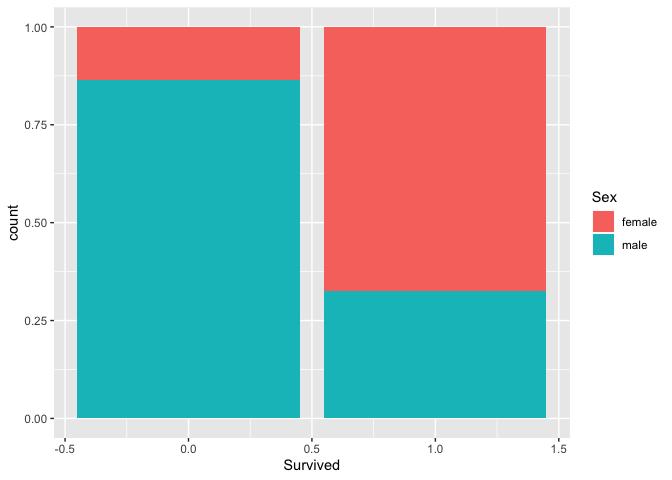
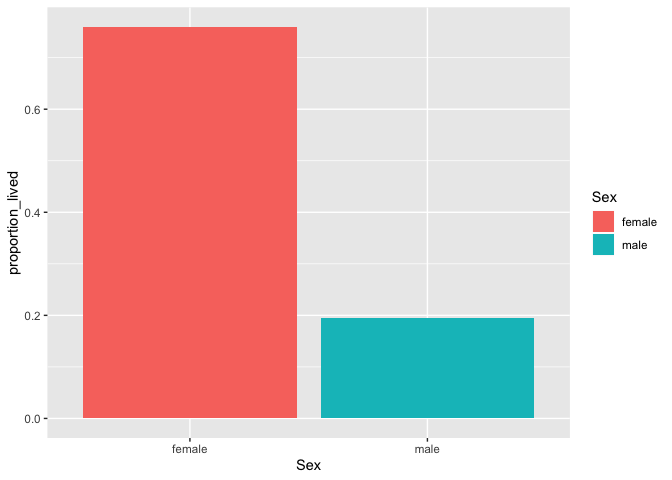
Logistic model

diff --git a/Analysis.md b/Analysis.md
@@ -192,14 +192,70 @@ Like with age, a simple bar chart will tell us a lot about how one group
 survives compared to the other.
 
 ``` r
-ggplot(train_data) +
-  geom_bar(aes(Survived, fill = Sex), position = "fill")
+by_sex <- train_data %>%
+  group_by(Sex) %>%
+  summarise(proportion_lived = sum(Survived == 1) / n())
+
+ggplot(by_sex) +
+  geom_col(aes(Sex, proportion_lived, fill = Sex))
 ```
 
 ![](Analysis_files/figure-gfm/unnamed-chunk-12-1.png)<!-- -->
+
+Gender is clearly a significant factor that determined which passengers
+survived. With both of these predictors analyzed visually, we can start
+building the model.
 
 ## Model Selection
 
 Since we are dealing with a classification problem, we will consider a
 few different modeling methods: logistic regression, linear discriminant
-analysis, and quadratic discriminant analysis.
+analysis, and quadratic discriminant analysis. Because we are dealing
+with a response that has two classes, logistic regression seems like a
+good place to start. For comparison’s sake, We will be implementing the
+logisitc regression algorithm by hand and using the `glm` function
+provided in R.
+
+Let’s start with the `glm`
+function:
+
+``` r
+log_fit <- glm(Survived ~ Pclass + Sex + Fare + Embarked + Famsize + Age_Group, data = train_data, family = binomial)
+
+summary(log_fit)
+```
+
+    ## 
+    ## Call:
+    ## glm(formula = Survived ~ Pclass + Sex + Fare + Embarked + Famsize + 
+    ##     Age_Group, family = binomial, data = train_data)
+    ## 
+    ## Deviance Residuals: 
+    ##     Min       1Q   Median       3Q      Max  
+    ## -3.1850  -0.5850  -0.4354   0.5852   2.3781  
+    ## 
+    ## Coefficients:
+    ##                       Estimate Std. Error z value Pr(>|z|)    
+    ## (Intercept)           6.866291   0.742787   9.244  < 2e-16 ***
+    ## Pclass               -1.023584   0.154662  -6.618 3.64e-11 ***
+    ## Sexmale              -2.910850   0.221666 -13.132  < 2e-16 ***
+    ## Fare                  0.004642   0.003002   1.547  0.12196    
+    ## EmbarkedQ            -0.071573   0.444057  -0.161  0.87195    
+    ## EmbarkedS            -0.277691   0.255406  -1.087  0.27692    
+    ## Famsize              -0.400870   0.094793  -4.229 2.35e-05 ***
+    ## Age_GroupChild       -1.798776   0.686243  -2.621  0.00876 ** 
+    ## Age_GroupTeen        -2.811223   0.575931  -4.881 1.05e-06 ***
+    ## Age_GroupYoung Adult -2.922699   0.534063  -5.473 4.44e-08 ***
+    ## Age_GroupAdult       -2.951963   0.526509  -5.607 2.06e-08 ***
+    ## Age_GroupElderly     -3.724008   0.605905  -6.146 7.94e-10 ***
+    ## ---
+    ## Signif. codes:  0 '***' 0.001 '**' 0.01 '*' 0.05 '.' 0.1 ' ' 1
+    ## 
+    ## (Dispersion parameter for binomial family taken to be 1)
+    ## 
+    ##     Null deviance: 1088.31  on 813  degrees of freedom
+    ## Residual deviance:  696.91  on 802  degrees of freedom
+    ##   (2 observations deleted due to missingness)
+    ## AIC: 720.91
+    ## 
+    ## Number of Fisher Scoring iterations: 5
